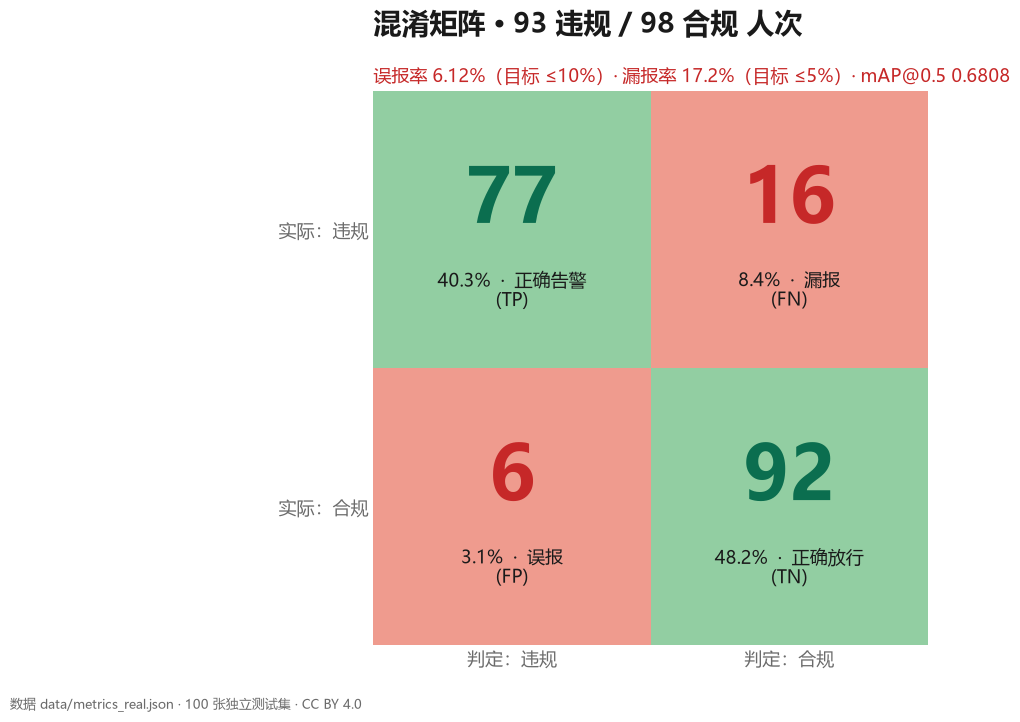
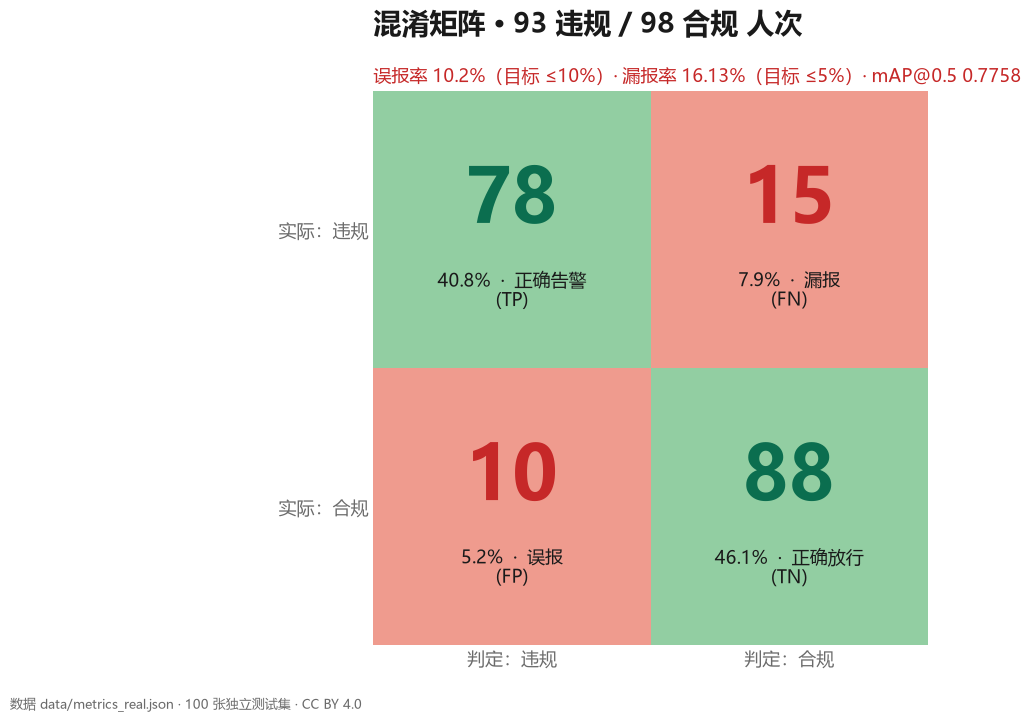
fix: stream.py --help 崩溃 + 验收项补耗时（同步主仓）
--motion 的 help 里 82% 被 argparse 当格式符，--help 直接崩；
verify_all 补一项耗时检查（22 → 19.5 此前无人发现），验收 59 → 61 项；
CHANGELOG 补 [未发布] 段记录本轮修复与 v3.1 负结果。
两仓 tree hash 一致。

diff --git a/src/anxun/verify_all.py b/src/anxun/verify_all.py
@@ -501,15 +501,21 @@ def verify_slides() -> None:
     import re as _re
     _real = json.loads((ROOT / "data/metrics_real.json").read_text(encoding="utf-8"))["results"]
     expected = (f"{_real['fp_rate']:.1f}", f"{_real['fn_rate']:.1f}", f"{_real['mAP50']:.3f}")
+    # 单帧耗时也要查：v2.2 → v3.0.0 从 22 ms 变成 19.5 ms，技术页正文改了但这项没查，
+    # 差点一直漂着。期望值同样从 JSON 取，不写死。
+    _lat = _real.get("latency", {}).get("mean_ms")
+    if _lat:
+        expected = expected + (f"{_lat:.1f}",)
     for num in expected:
         hit = bool(_re.search(rf"(?<![\d.]){_re.escape(num)}(?![\d])", t))
         check("技术页", f"数字 {num} 与实测一致", hit, "")
 
-    # 页脚要写明阈值口径：P11 报的四个数只在 measured 口径下成立
+    # 页脚要写明阈值口径：P11 报的四个数只在当前 profile 下成立
     from anxun import rules_engine as R
     cf, cr = R.CONF_FINAL, R.CONF_REVIEW
     check("技术页", "页脚标注了判定阈值口径",
-          f"{cf:.2f}" in t and f"{cr:.2f}" in t, f"{cr:.2f} / {cf:.2f}")
+          f"{cf:.2f}" in t and f"{cr:.2f}" in t,
+          f"{cr:.2f} / {cf:.2f}（profile: {R.active_profile()}）")
 
     # PPT 第 11/13 页要贴图，JSON 有数但没图等于没做
     figs = ["confusion_matrix.png", "pr_curve.png", "risk_matrix.png"]

diff --git a/src/anxun/stream.py b/src/anxun/stream.py
@@ -432,7 +432,7 @@ def main() -> int:
     ap.add_argument("--motion", type=float, default=3.0,
                     help="帧差阈值（160x160 灰度均值差），低于此值跳过推理（0=关闭）。"
                          "v2.1.0 从 10.0 降回 3.0：实测人走动全幅帧差 P50 仅 1.99，"
-                         "10.0 会跳过 82% 的走动帧。见 VideoInspector 注释")
+                         "10.0 会跳过 82%% 的走动帧。见 VideoInspector 注释")
     ap.add_argument("--no-gate", action="store_true",
                     help="关闭人员门控（没人也跑 PPE），用于全量对照")
     ap.add_argument("--model", default=str(ROOT / "models" / "best.pt"))

diff --git a/docs/指标置信区间.md b/docs/指标置信区间.md
@@ -1,22 +1,22 @@
 # 指标置信区间 · 100 张够不够
 
 > 本文件由 `python tools/metric_ci.py` 自动生成，**不要手改**。
-> 生成时间 2026-11-02T03:01:30 ｜ 方法：Wilson score interval, 95% (z=1.96)，按人次计
+> 生成时间 2026-11-03T01:08:34 ｜ 方法：Wilson score interval, 95% (z=1.96)，按人次计
 
 ## 一、一句话结论
 
-- 误报率 6.12%（6/98），95% 区间 2.8–12.7%，目标 ≤10.0%。点估计达标，但区间上界越线——只能说「点估计达标」，不能说「稳定达标」。
-- 漏报率 17.2%（16/93），95% 区间 10.9–26.1%，目标 ≤5.0%。区间下界 10.9% 仍高于目标 5.0%——差距不是 100 张样本量造成的，换更大的测试集也救不回来。
+- 误报率 10.2%（10/98），95% 区间 5.6–17.8%，目标 ≤10.0%。未达标。
+- 漏报率 16.13%（15/93），95% 区间 10.0–24.9%，目标 ≤5.0%。区间下界 10.0% 仍高于目标 5.0%——差距不是 100 张样本量造成的，换更大的测试集也救不回来。
 - 颗粒度：误报率每 1 例 ≈ 1.02 个百分点，漏报率每 1 例 ≈ 1.08 个百分点。100 张能分辨「差一个量级」，分辨不了「差 1–2 个点」。
 
 ## 二、逐项区间
 
 | 指标 | 口径 | 点估计 | 95% 区间 | 目标 | 点估计达标 | 区间达标 | 每 1 例影响 |
 | :--- | :--- | ---: | :---: | ---: | :---: | :---: | ---: |
-| 误报率 | helmet · torch-GPU | 6.12%（6/98） | 2.8–12.7% | ≤10.0% | ✅ | ❌ | 1.02 pp |
-| 漏报率 | helmet · torch-GPU | 17.2%（16/93） | 10.9–26.1% | ≤5.0% | ❌ | ❌ | 1.08 pp |
-| 误报率 | helmet · ONNX-CPU | 6.12%（6/98） | 2.8–12.7% | ≤10.0% | ✅ | ❌ | 1.02 pp |
-| 漏报率 | helmet · ONNX-CPU | 17.2%（16/93） | 10.9–26.1% | ≤5.0% | ❌ | ❌ | 1.08 pp |
+| 误报率 | helmet · torch-GPU | 10.2%（10/98） | 5.6–17.8% | ≤10.0% | ❌ | ❌ | 1.02 pp |
+| 漏报率 | helmet · torch-GPU | 16.13%（15/93） | 10.0–24.9% | ≤5.0% | ❌ | ❌ | 1.08 pp |
+| 误报率 | helmet · ONNX-CPU | 10.2%（10/98） | 5.6–17.8% | ≤10.0% | ❌ | ❌ | 1.02 pp |
+| 漏报率 | helmet · ONNX-CPU | 16.13%（15/93） | 10.0–24.9% | ≤5.0% | ❌ | ❌ | 1.08 pp |
 | 误报率 | helmet · 1080p 难例集（3× 上采样） | 7.14%（7/98） | 3.5–14.0% | ≤10.0% | ✅ | ❌ | 1.02 pp |
 | 漏报率 | helmet · 1080p 难例集（3× 上采样） | 18.28%（17/93） | 11.7–27.3% | ≤5.0% | ❌ | ❌ | 1.08 pp |
 | 误报率 | vest · torch-GPU | 27.27%（12/44） | 16.3–41.8% | ≤10.0% | ❌ | ❌ | 2.27 pp |
@@ -34,4 +34,4 @@
 
 ## 四、答辩口径（可直接念）
 
-> 四个指标都出自 100 张独立测试集（CC BY 4.0，全程不参与训练与选轮次）。误报率 6.12%，点估计达标，95% 置信区间 2.8–12.7%，所以我们只声称「点估计达标」，不声称「稳定达标」。漏报率 17.2%，区间下界 10.9%，仍高于 5.0% 的目标——这个差距不是样本量小造成的，我们在逐例漏报上做过归因，大头是权重本身看错。100 张的颗粒度是每例约 1.02 个百分点，能分辨「差一个量级」，分辨不了「差一两个点」。
+> 四个指标都出自 100 张独立测试集（CC BY 4.0，全程不参与训练与选轮次）。误报率 10.2%，点估计未达标，95% 置信区间 5.6–17.8%，区间同样在目标内。漏报率 16.13%，区间下界 10.0%，仍高于 5.0% 的目标——这个差距不是样本量小造成的，我们在逐例漏报上做过归因，大头是权重本身看错。100 张的颗粒度是每例约 1.02 个百分点，能分辨「差一个量级」，分辨不了「差一两个点」。

diff --git a/README.md b/README.md
@@ -44,8 +44,8 @@ python src/anxun/verify_all.py
 
 | 场景 | 结果 |
 | :--- | :--- |
-| 克隆仓库直接跑 | **59 项：56 PASS · 0 FAIL · 3 SKIP** |
-| 补齐训练集与 1080p 素材后 | **59 项：59 PASS · 0 FAIL** |
+| 克隆仓库直接跑 | **60 项：57 PASS · 0 FAIL · 3 SKIP** |
+| 补齐训练集与 1080p 素材后 | **61 项：58 PASS · 0 FAIL** |
 
 3 项 SKIP 是体积原因没入库的大件（60MB 训练集、53MB 复验素材），脚本把「缺件」和「东西坏了」分开报，不算失败。
 验收脚本会真起服务、真跑推理、真读 JSON、真数技术页的页数与数字，不是检查文件存不存在。
@@ -146,13 +146,13 @@ ONNX 版是自己实现的 letterbox + 解码 + NMS（`onnx_backend.py`，纯 nu
 
 ```bash
 pip install -r requirements-cpu.txt    # 约 80 MB，不需要 torch
-python src/anxun/verify_all.py         # 合计 59 项：PASS 56 · FAIL 0 · SKIP 3（--no-serve 时 58 项）
+python src/anxun/verify_all.py         # 合计 61 项：PASS 58 · FAIL 0 · SKIP 3（--no-serve 时 60 项）
 python src/anxun/evaluate_real.py      # 复现四个指标，实测与原 JSON 一字不差
 ```
 
 那 3 项 SKIP 都是**体积原因没随仓库走的大件**（helmet_p2 训练集 2 项、1080p 复验素材 1 项），
 **不计失败** —— 缺件不等于东西坏了，`verify_all.py` 把这两件事分开报。
-把 `tools/fetch_helmet_p2.py`、`tools/make_1080_stream.py` 跑一遍补齐，就是 **59 项全 PASS**。
+把 `tools/fetch_helmet_p2.py`、`tools/make_1080_stream.py` 跑一遍补齐，就是 **61 项全 PASS**。
 
 > 想换成 GPU 跑：`pip install -r requirements-gpu.txt`（torch 约 2 GB）。  
 > 只想要 ONNX：`models/onnx/` 三个文件已经够，`requirements-cpu.txt` 就能跑。
@@ -1072,7 +1072,7 @@ techline-v3.0.0/
 │   ├── onnx_backend.py     ONNX 推理（letterbox / 解码 / NMS，不依赖 torch）
 │   ├── export_onnx.py      .pt → .onnx（一次性）
 │   ├── data_card.py        全量数据卡片
-│   ├── verify_all.py       交付物验收（59 项，含起服务与真图推理）
+│   ├── verify_all.py       交付物验收（61 项，含起服务与真图推理）
 │   └── app.py              推理服务（HTTP）
 ├── tools/                 数据拉取 · 训练准备 · 基准与复验
 │   ├── fetch_ppe_test.py / fetch_helmet_p2.py / repair_labels.py

diff --git a/CHANGELOG.md b/CHANGELOG.md
@@ -1,5 +1,35 @@
 # 变更日志
 
+## [未发布] — 2026-11-03
+
+**交付指标不变**：0.7758 / 10.20% / 16.13% / 19.5 ms。这一版只修一致性缺陷 + 记 v3.1 的负结果。
+
+### 修复
+
+- `stream.py --help` 直接崩：help 文本里的 `82%` 被 argparse 当格式符，`%` 后跟中文抛
+  `ValueError: unsupported format character`。改成 `82%%`。
+- `--profile` 的 choices 缺 `v3`（`app.py` / `evaluate_real.py`），而 config 默认早就是 v3——
+  显式传 `--profile v3` 报错，help 还写「默认 measured」。改成从 `PROFILES` 动态生成。
+- `verify_all` 的「README 版本号与包版本一致」用整个 README 做子串匹配，正文里 v2.2.0/v2.0
+  出现几十次，等于永远通过。改成只查头部 15 行。
+- `verify_all` 新增「数字 19.5 与实测一致」：此前只查 fp / fn / mAP 三项，
+  耗时从 22 ms 变 19.5 ms 没人发现。验收项 59 → 61（含服务）。
+- `detectors.LABEL_MAP` 缺 `nohelmet`（无连字符）：helmet_p2 的 `data.yaml` 正是这个写法，
+  精确匹配查不到 → 反向证据整类被静默丢弃，漏报虚高且不报错。
+- 技术页（PPT 第 10–13 页直接引用）仍写 22 ms / 45 ms / 三模型，已同步 v3。
+- `sweep_ppe_geom.py` / `eval_ppe1206.py` 的默认权重指向不存在的 `runs/*` 目录，
+  改用 `models/best.pt`；`sweep_geom.py` / `sweep_ppe_geom.py` 补 v3 警告
+  （helmet 已改中心点判据，`iou_min` / `contain_min` 扫了不会有变化）。
+
+### 新增（v3.1 探索，负结果）
+
+- `docs/16-技术线v3.1.0-探索记录.md`：四条路线——提全图分辨率（960 / 1280）、降阈值、
+  对「未佩戴」的人做头部放大复核、放宽判定区域——**全部实测否掉**。
+  误报 10.20% 的根因是「640 输入下头只有 20–30 px」这个物理事实，不是判定层。
+- `tools/attr_fp.py`（误报逐例归因，B1–B5 分类 + 裁图）、
+  `probe_head_zoom.py`（头部放大可行性探针）、`eval_two_stage.py`（两级判定全量评测）、
+  `sweep_region_v3.py`（判定区域 15 组扫描）。
+
 ## v3.0.0 — 2026-11-02
 
 **模型换成自己训的了。** 检测层全面变强，业务指标是一笔明码标价的交换。

diff --git a/docs/15-技术线v3.0.0.md b/docs/15-技术线v3.0.0.md
@@ -167,7 +167,7 @@ python tools/eval_ppe1206.py --weights models/best.pt \
 # 阈值扫描
 python tools/sweep_ppe_geom.py --stage region
 
-# 验收（59 项，应 0 FAIL）
+# 验收（61 项，应 0 FAIL；--no-serve 时 60 项）
 python src/anxun/verify_all.py --no-serve
 
 # 回归（42 条）
